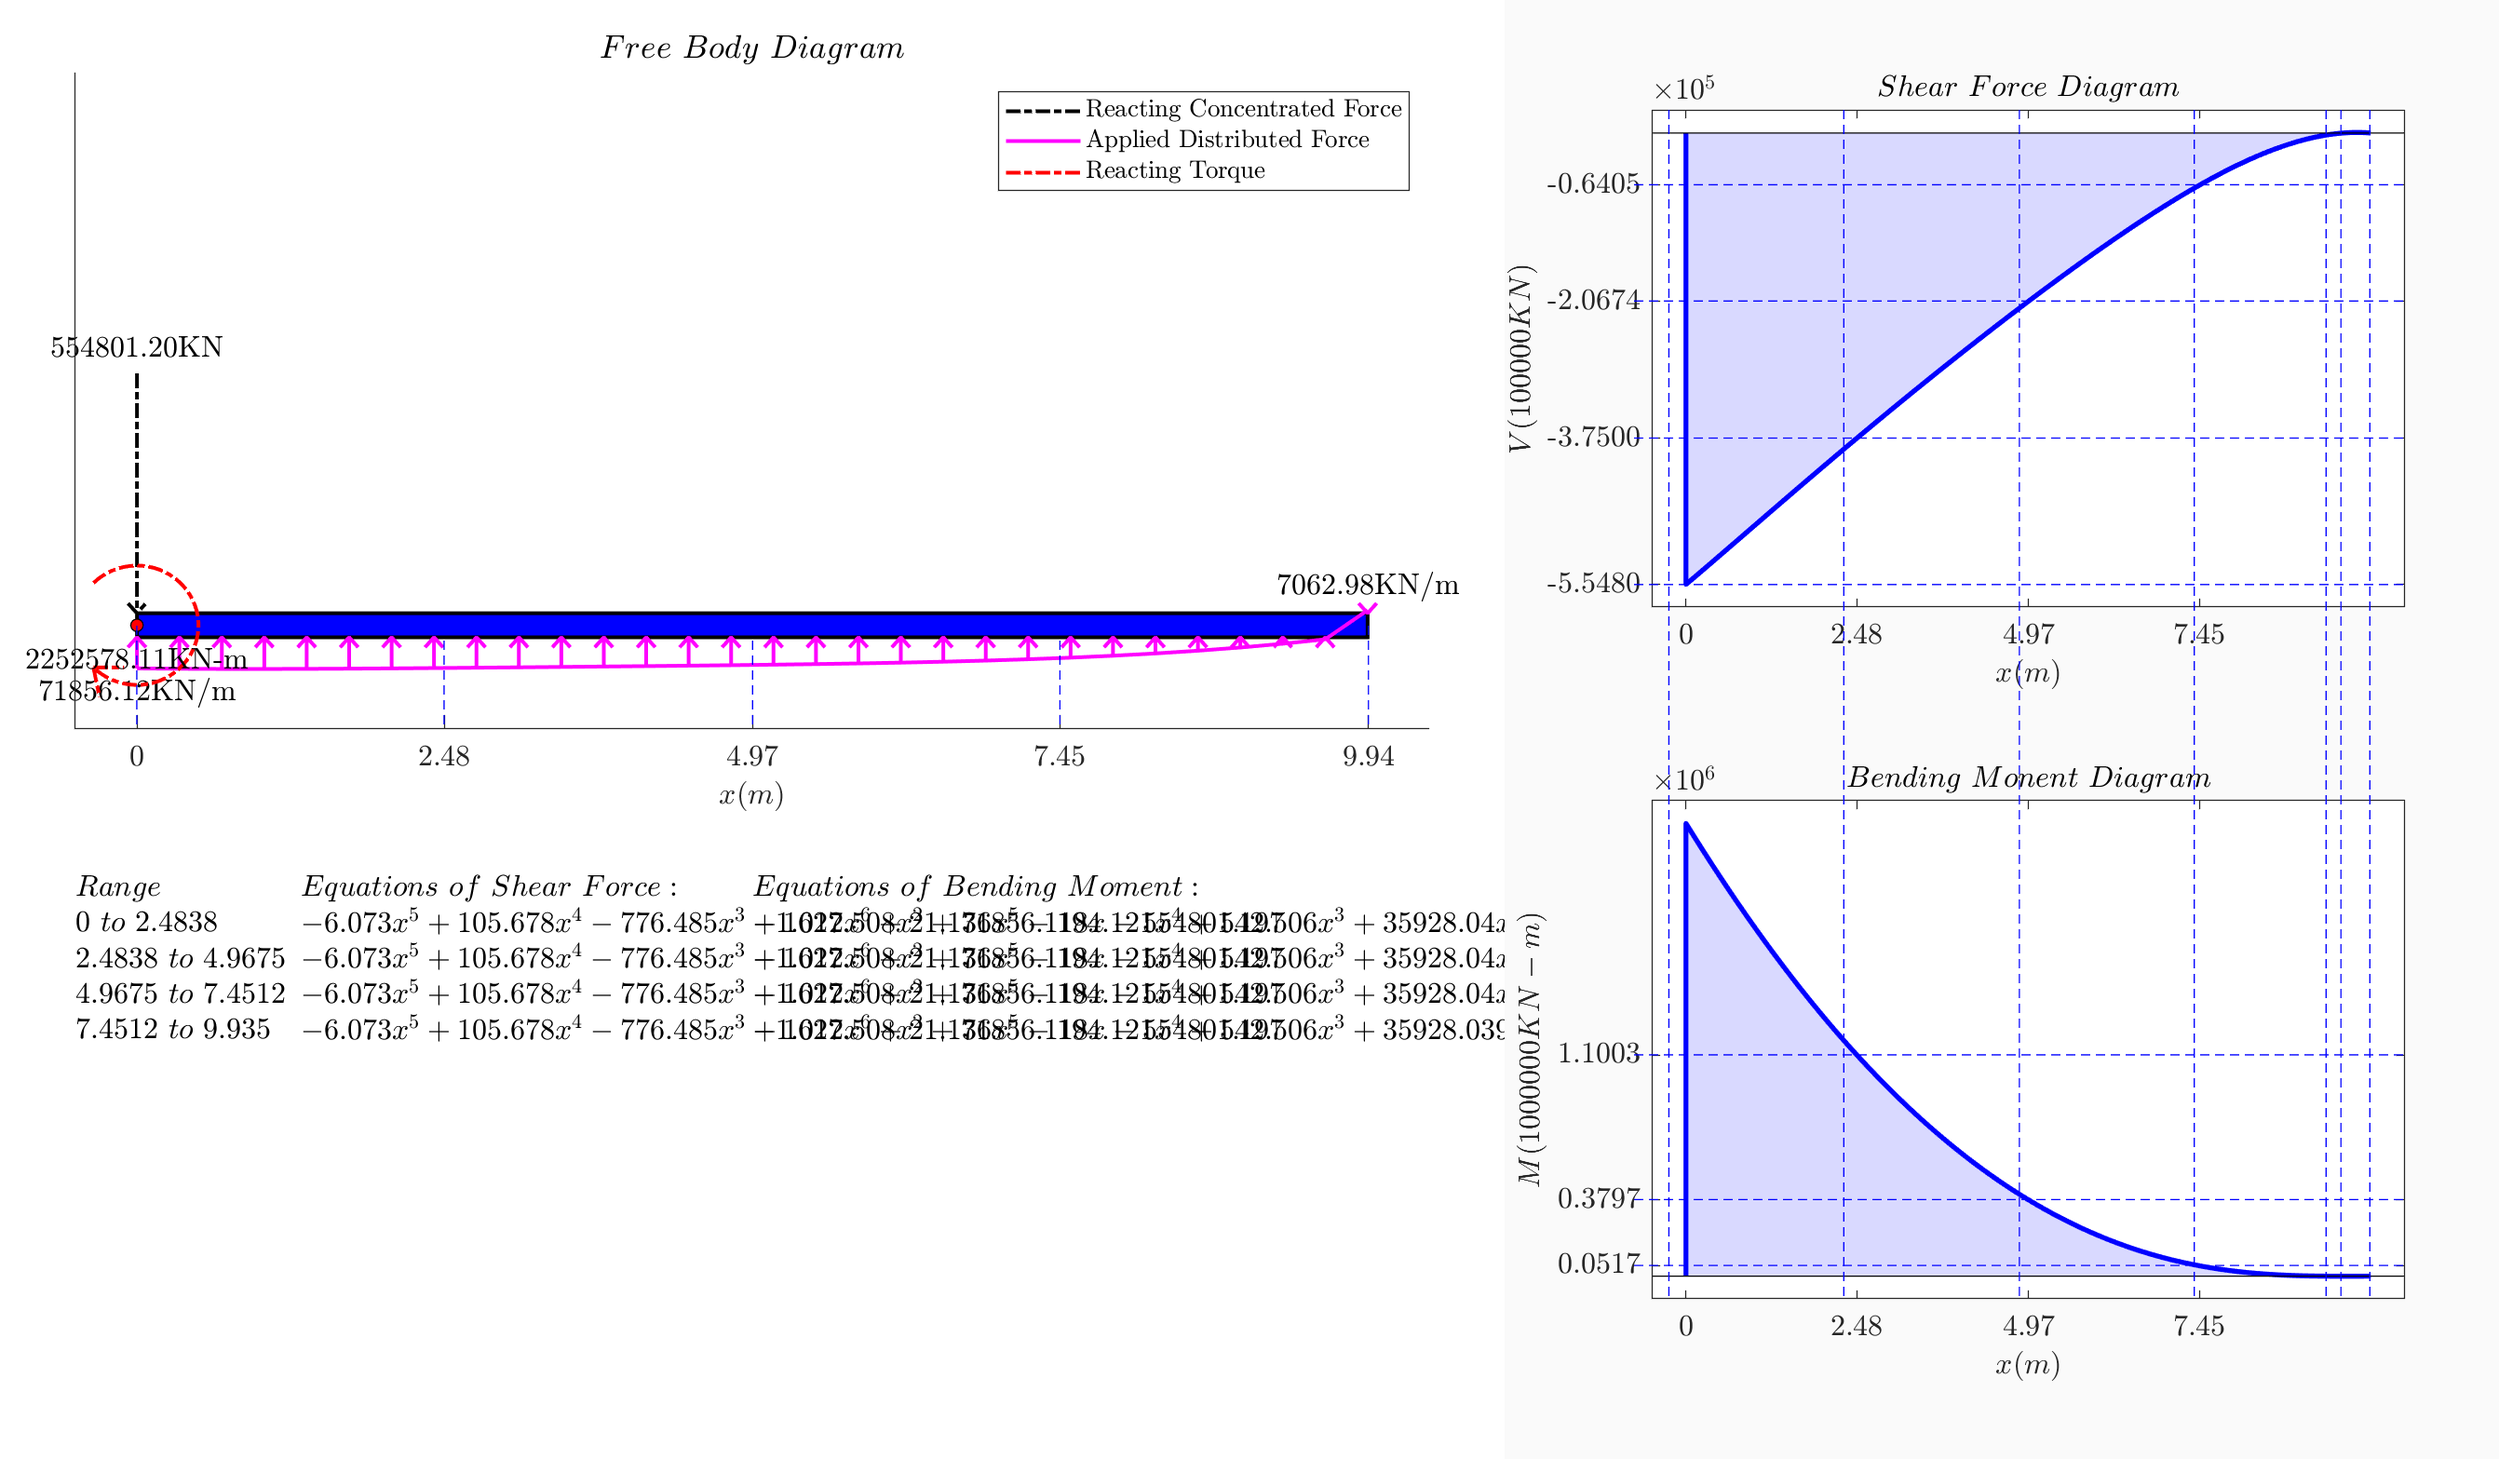
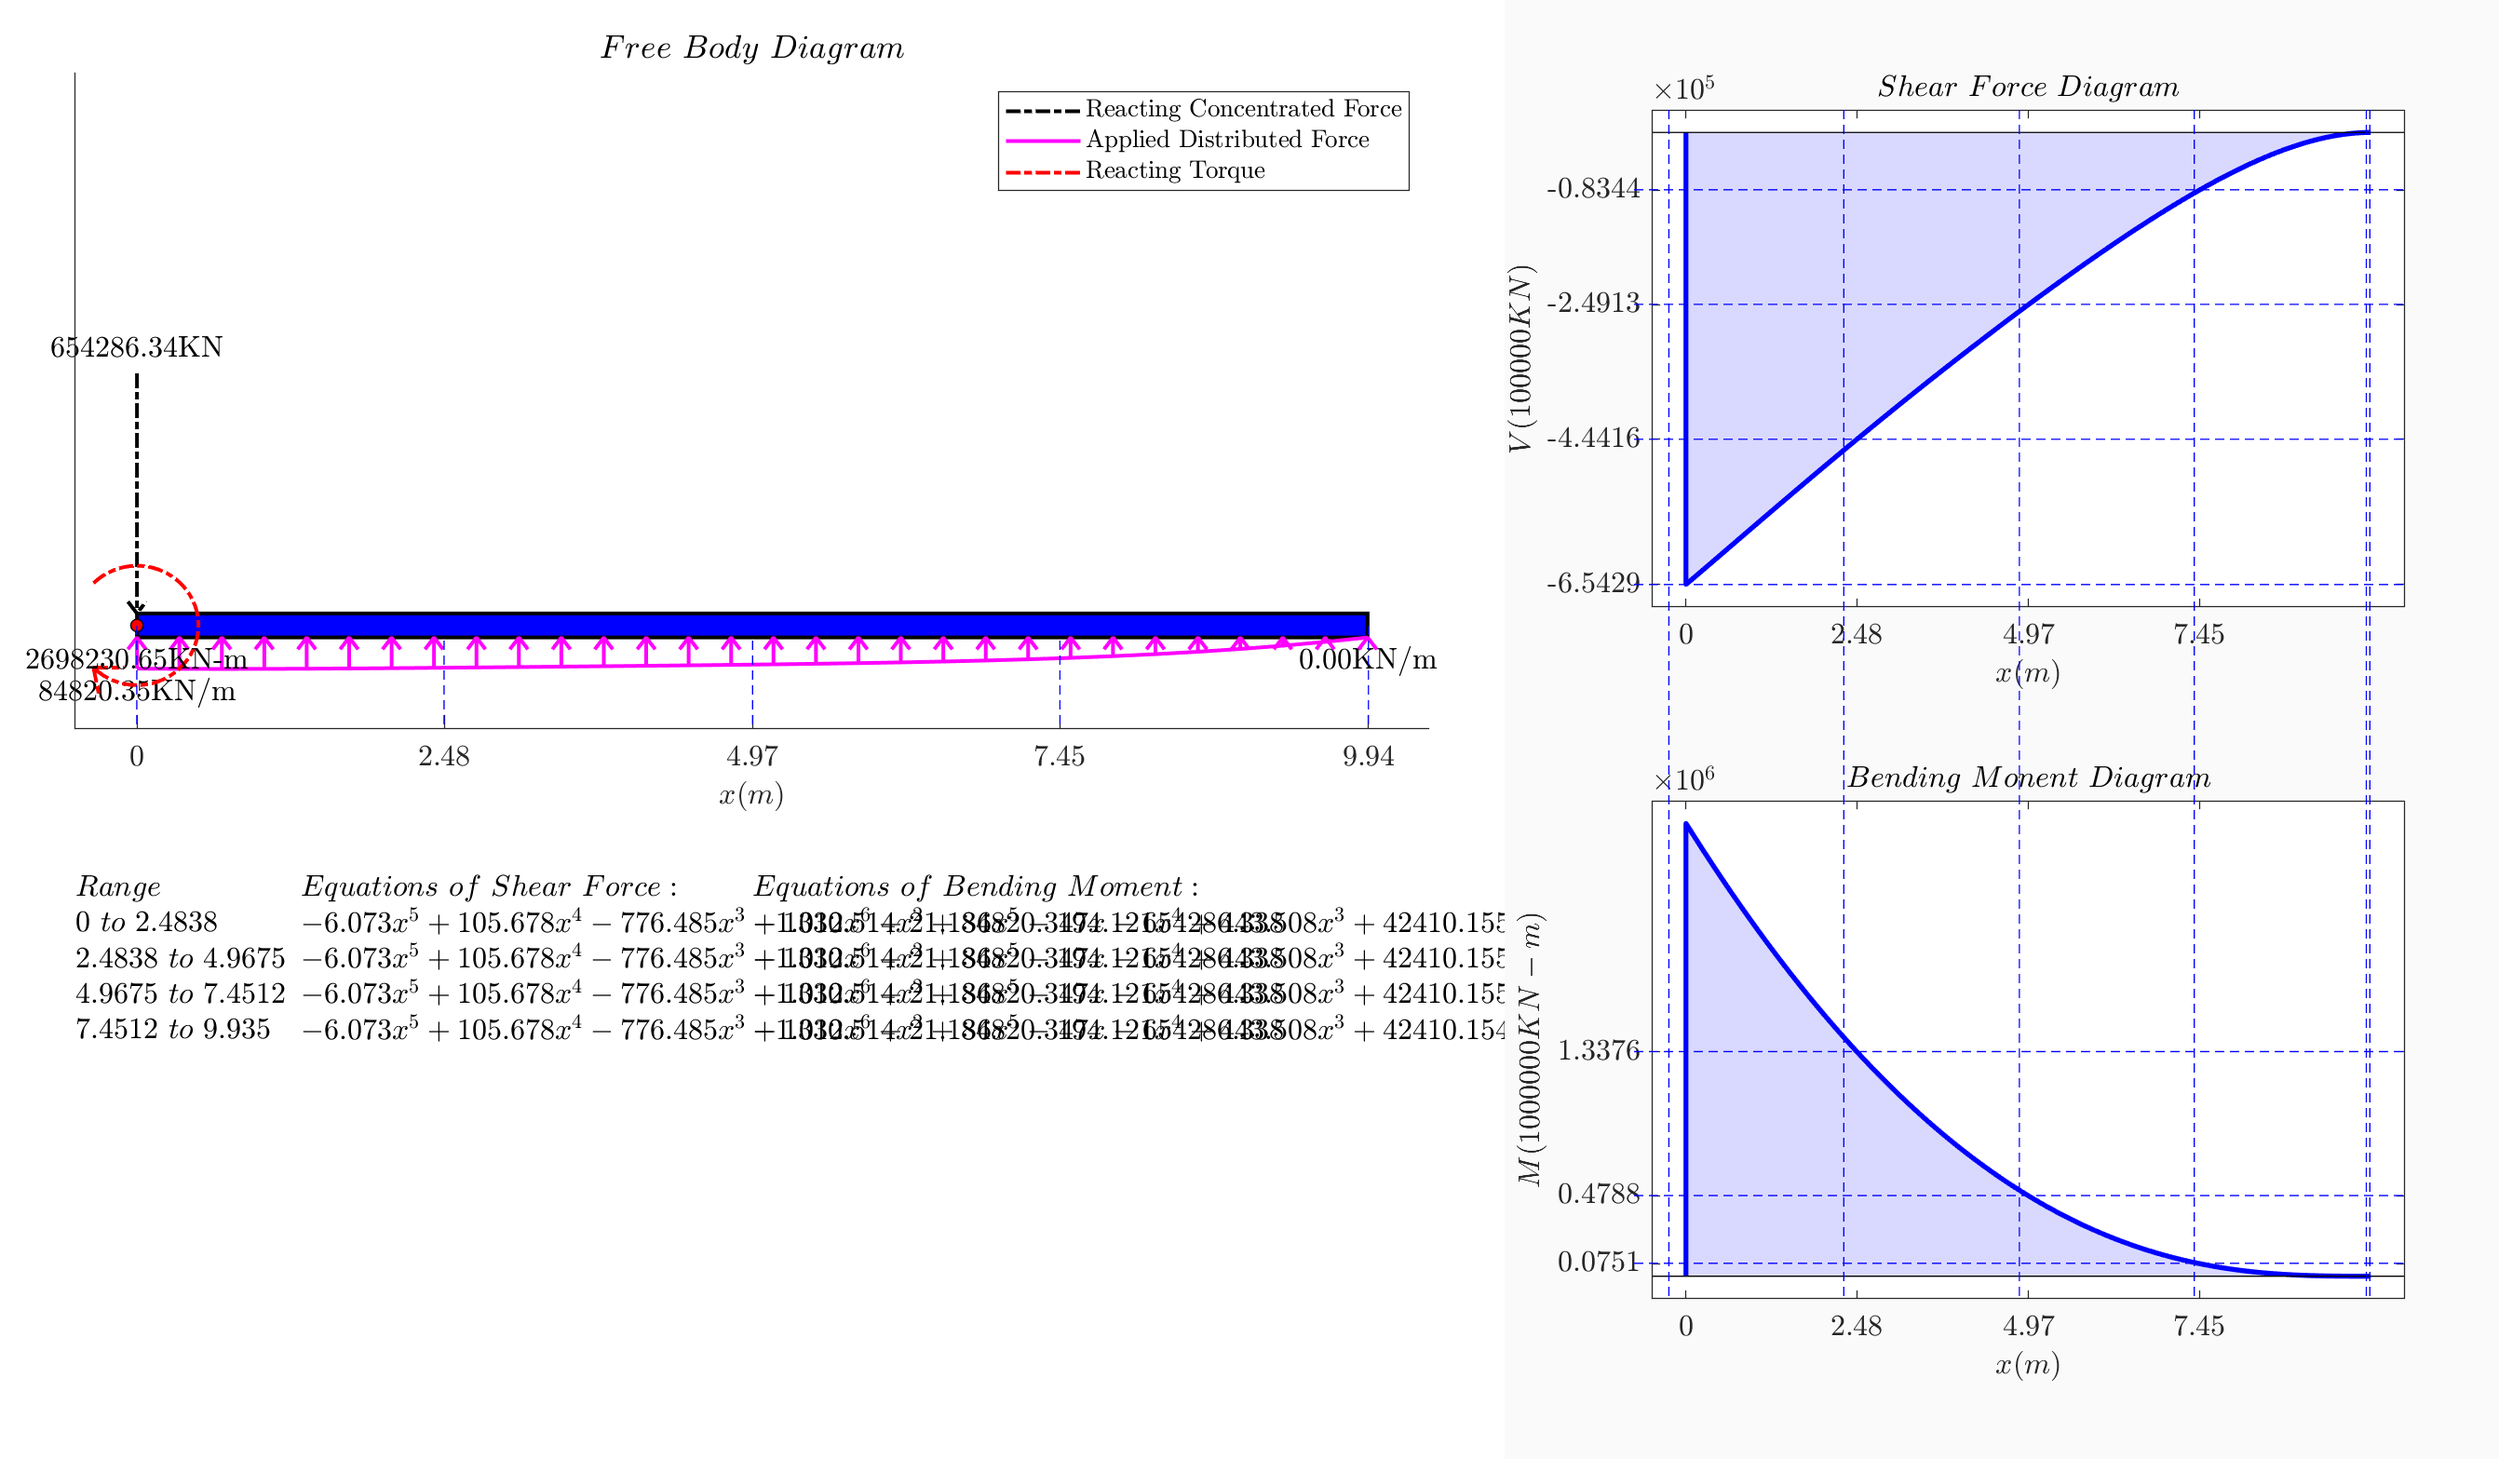
fixed vfrac's tf dependency

diff --git a/cell_circumference.m b/cell_circumference.m
@@ -1,0 +1,101 @@
+function S = cell_circumference(afpoly,chord,cfrac)
+% Yuri Shimane, 2020/02/24
+% ================================================================ %
+% Function calculates cell circumference over discretized airfoil
+% INPUT
+%   afpoly : polyshape object of airfoil, with unit chord length
+%   chord  : physical chord length (by default set to 1)
+%   cfrac  : fraction location along chord up to which circumference is
+%            calculated; for cfrac = 1, entire circumference is of entire
+%            airfoil
+% OUTPUT
+%   S     : cell circumference
+% ================================================================ %
+
+if nargin == 1
+    chord = 1;  % by default, calculate airfoil area for unit chord
+    cfrac = 1;  % by default, return entire area
+end
+
+k = 1;
+l = 1;
+for i = 1:length(afpoly.Vertices)-1
+    if afpoly.Vertices(i,1) <= afpoly.Vertices(i+1,1)
+        upper_x(k,1) = afpoly.Vertices(i,1);
+        upper_y(k,1) = afpoly.Vertices(i,2);
+        k = k + 1;
+    else
+        lower_x(l,1) = afpoly.Vertices(i,1);
+        lower_y(l,1) = afpoly.Vertices(i,2);
+        l = l+1;
+    end
+end
+% reverse order of lower arrays
+lower_x = flipud(lower_x);
+lower_y = flipud(lower_y);
+% interpolate functions as symbolic object
+upper_p = polyfit(upper_x,upper_y,9);
+lower_p = polyfit(lower_x,lower_y,9);
+% create array to integrate up to cfrac
+x_interp = linspace(0,cfrac,300)';
+upper_y_interp = polyval(upper_p,x_interp);
+lower_y_interp = polyval(lower_p,x_interp);
+
+% scale x coordinates with chord
+x_interp = x_interp * chord;
+% scale y coordinates with chord, t/c
+upper_y_interp = upper_y_interp * chord;
+lower_y_interp = lower_y_interp * chord;
+
+% compute distance between each consecutive points along the airfoil
+if chord == 1   %... ugly work around in case chord == 1
+    upper_S = zeros(length(x_interp)-2, 1);
+    lower_S = zeros(length(x_interp)-2, 1);
+    for i = 1:length(x_interp)-2
+        upper_S(i,1) = sqrt( ( upper_y_interp(i,1) - upper_y_interp(i+1,1) )^2 + ...
+                             ( x_interp(i,1) - x_interp(i+1,1) )^2 );
+        lower_S(i,1) = sqrt( ( lower_y_interp(i,1) - lower_y_interp(i+1,1) )^2 + ...
+                             ( x_interp(i,1) - x_interp(i+1,1) )^2 );
+    end
+else
+    upper_S = zeros(length(x_interp)-1, 1);
+    lower_S = zeros(length(x_interp)-1, 1);
+    for i = 1:length(x_interp)-1
+    upper_S(i,1) = sqrt( ( upper_y_interp(i,1) - upper_y_interp(i+1,1) )^2 + ...
+                         ( x_interp(i,1) - x_interp(i+1,1) )^2 );
+    lower_S(i,1) = sqrt( ( lower_y_interp(i,1) - lower_y_interp(i+1,1) )^2 + ...
+                         ( x_interp(i,1) - x_interp(i+1,1) )^2 );
+    end
+end
+
+S = sum(upper_S) + sum(lower_S);
+
+
+% de-bug plots
+figure(101)
+plot(upper_x,upper_y,'xb')
+hold on
+plot(lower_x,lower_y,'xr')
+axis equal
+
+figure(102)
+plot(x_interp,upper_y_interp,'xb')
+hold on
+plot(x_interp,lower_y_interp,'xr')
+axis equal
+
+disp(2*chord);
+
+% shift airfoil upward to be robust against flip in +/- in the y-axis
+% upper_y = upper_y + 10;
+% lower_y = lower_y + 10;
+% % integrate
+% upper_area = trapz(x_interp,upper_y);
+% lower_area = trapz(x_interp,lower_y);
+% % unit-chord area
+% area_unit = upper_area - lower_area;
+% % convert to physical area
+% area = area_unit * chord^2 * tc;
+
+end
+

diff --git a/sims.m b/sims.m
@@ -19,9 +19,9 @@ y = linspace(0, b/2, n);
 
 %% Forces
 if strcmp(componentname,'wing')
-    load = Lift_perSpan(y, b/2, MTOW, f, n) + struct_weight(y, Sw, t, b/2, Vw, Ww) + fuel_weight(y, Sw, t, b/2, Vw, Ww);
+    load = Lift_perSpan(y, b/2, MTOW, f, n) + struct_weight(tc, y, Sw, t, b/2, Vw, Ww) + fuel_weight(tc, y, Sw, t, b/2, Vw, Ww);
 elseif strcmp(componentname,'htail')
-    load = Lift_perSpan(y, b/2, MTOW, f, n) + struct_weight(y, Sw, t, b/2, Vw, Ww);
+    load = Lift_perSpan(y, b/2, MTOW, f, n) + struct_weight(tc, y, Sw, t, b/2, Vw, Ww);
 end
 
 %% Torsion

diff --git a/optim_skin.m b/optim_skin.m
@@ -35,7 +35,7 @@ for i = 1:spanwise_steps
     Ar(1,i) = afarea(afpoly,tc,c_y(1,i),bspar) - An(1,i);
     
     % compute cell circumference Sn, Sr
-    
+    Sn = cell_circumference(afpoly,c_y(1,i),fspar);
     
     % compute front spar height (at fspar location)
     h_w(1,i) = sparheight_calc(afpoly,c_y(1,i),fspar);

diff --git a/struct_weight.m b/struct_weight.m
@@ -1,4 +1,4 @@
 % structural weight per unit span
-function out = struct_weight(y, Sw, t, b, Vw, Ww)
-    out = vfrac(y, Sw, t, b, Vw) * -Ww;
+function out = struct_weight(tc, y, Sw, t, b, Vw, Ww)
+    out = vfrac(tc, y, Sw, t, b, Vw) * -Ww;
 end

diff --git a/fuel_weight.m b/fuel_weight.m
@@ -1,3 +1,3 @@
-function out = fuel_weight(y, Sw, t, b, Vw, Wf)
-    out = vfrac(y, Sw, t, b, Vw) * -Wf;
+function out = fuel_weight(tc, y, Sw, t, b, Vw, Wf)
+    out = vfrac(tc, y, Sw, t, b, Vw) * -Wf;
 end

diff --git a/vfrac.m b/vfrac.m
@@ -1,4 +1,4 @@
-function out = vfrac(y, Sw, t, b, Vw)
+function out = vfrac(tc, y, Sw, t, b, Vw)
     % compute volume per unit length fraction
     out = (tc * c(y, Sw, t, b) .* 2)/(Vw);
 end
